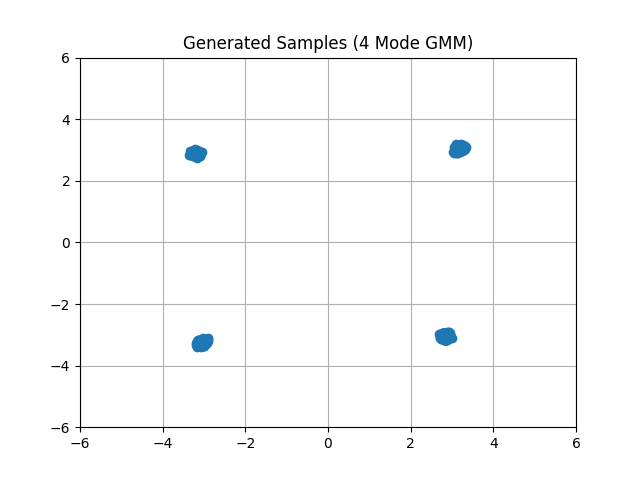
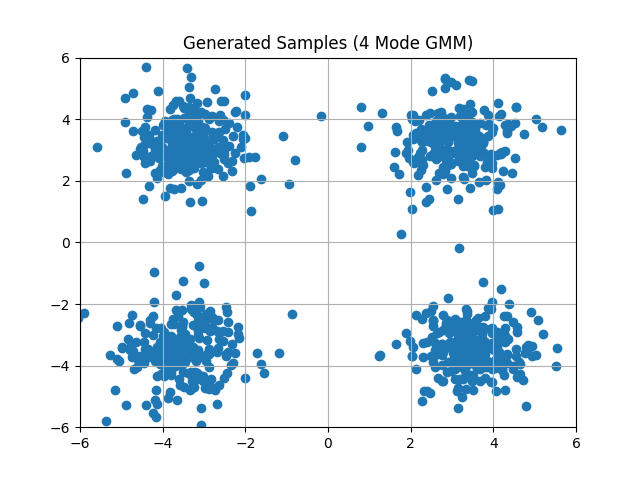
implemented full asbs and vpsde

diff --git a/train.py b/train.py
@@ -3,7 +3,7 @@ import torch.nn as nn
 import torch.optim as optim
 import matplotlib.pyplot as plt
 
-from sde import VESDE
+from sde import VESDE, VPSDE
 from matcher import AdjointMatcher
 from energy import GMM2DEnergy
 
@@ -31,33 +31,45 @@ class ZeroCorrector(nn.Module):
     def forward(self, t, x):
         return torch.zeros_like(x)
 
-def train_minimal_asbs():
+def train_asbs():
     device = torch.device("cuda" if torch.cuda.is_available() else "cpu")
-    sde = VESDE()
+    sde = VPSDE()
     matcher = AdjointMatcher(sde, steps=500)
     energy_fn = GMM2DEnergy(device=device)
 
     adjoint_model = MinimalMLP().to(device)
-    corrector_model = ZeroCorrector().to(device)
+    corrector_model = MinimalMLP().to(device)
 
-    optimizer = optim.Adam(adjoint_model.parameters(), lr=1e-3)
+    optimizer_adjoint_model = optim.Adam(adjoint_model.parameters(), lr=1e-3)
+    optimizer_corrector_model = optim.Adam(corrector_model.parameters(), lr=1e-3)
 
     batch_size = 512
-    epochs = 2000
+    epochs = 10
+    corrector_iterations = 1000
+    adjoint_iterations = 1000
     adjoint_model.train()
     print("[START TRAINING]")
     for epoch in range(epochs):
-        x0 = torch.randn(batch_size, 2, device=device)
-
-        loss = matcher.get_loss(adjoint_model, corrector_model, energy_fn, x0)
-        optimizer.zero_grad()
-        loss.backward()
-        optimizer.step()
-
-        if epoch % (epochs // 10) == 0:
-            print(f"Epoch: {epoch} | Loss: {loss.item():.4f}")
+        for iteration in range(adjoint_iterations):
+            x0 = torch.randn(batch_size, 2, device=device)
+            loss_adjoint_model = matcher.get_loss(adjoint_model, corrector_model, energy_fn, x0)
+            optimizer_adjoint_model.zero_grad()
+            loss_adjoint_model.backward()
+            optimizer_adjoint_model.step()
+            if iteration % max(adjoint_iterations // 2, 1) == 0:
+                print(f"Adjoint Model | Epoch: {epoch} | Training Iteration: {epoch * adjoint_iterations + iteration} | Loss: {loss_adjoint_model.item():.4f}")
+        for iteration in range(corrector_iterations):
+            x0 = torch.randn(batch_size, 2, device=device)
+            loss_corrector_model = matcher.get_corrector_loss(corrector_model, x0)
+            optimizer_corrector_model.zero_grad()
+            loss_corrector_model.backward()
+            optimizer_corrector_model.step()
+            if iteration % max(corrector_iterations // 2, 1) == 0:
+                print(f"Corrector Model | Epoch: {epoch} | Training Iteration: {epoch * adjoint_iterations + iteration} | Loss: {loss_corrector_model.item():.4f}")
+        if epoch % max(epochs // 10, 1) == 0:
+            print(f"Epoch: {epoch} | Adjoint Model Loss: {loss_adjoint_model.item():.4f} | Corrector Model Loss: {loss_corrector_model.item():.4f}")
     print("[END TRAINING]")
-    return adjoint_model, sde
+    return adjoint_model, corrector_model, sde
 
 @torch.no_grad()
 def sample_and_plot(adjoint_model, sde):
@@ -65,21 +77,23 @@ def sample_and_plot(adjoint_model, sde):
     adjoint_model.eval()
     steps = 100
     dt = 1.0 / steps
-    x = torch.randn(1000, 2, device=device)
+    x = torch.randn(1000, 2, device=device) * 2.0
     for step in range(steps):
         t = torch.full((x.shape[0], 1), step * dt, device=device)
         g_t = sde.diffusion(t)
-        learned_drift = (g_t ** 2) * adjoint_model(t, x)
+        base_drift = sde.drift(t, x)
+        control_drift = (g_t ** 2) * adjoint_model(t, x)
+        drift = base_drift + control_drift
         noise = torch.randn_like(x) * g_t * dt ** 0.5
-        x = x + learned_drift + noise
+        x = x + drift * dt + noise
     x_numpy = x.cpu().numpy()
     plt.scatter(x_numpy[:,0], x_numpy[:,1])
     plt.title("Generated Samples (4 Mode GMM)")
     plt.xlim(-6, 6)
     plt.ylim(-6, 6)
     plt.grid(True)
-    plt.savefig("test.png")
+    plt.savefig("test_vpsde3.png")
 
 if __name__ == "__main__":
-    model, sde = train_minimal_asbs()
+    model, corrector_model, sde = train_asbs()
     sample_and_plot(model, sde)

diff --git a/sde.py b/sde.py
@@ -11,9 +11,11 @@ class BaseSDE(nn.Module):
     def diffusion(self, t):
         """g(t)"""
         pass
-    def marginal_prob(self, x0, t):
+    def marginal_prob(self, t, x0):
         """mean and std of p(xt | x0)"""
         pass
+    def adjoint_scaling(self, t):
+        return torch.ones_like(t)
 
 class VESDE(BaseSDE):
     def __init__(self, sigma_min=0.01, sigma_max=1.0):
@@ -30,7 +32,7 @@ class VESDE(BaseSDE):
         return torch.zeros_like(x)
     def diffusion(self, t):
         return self.sigma_min * (self.sigma_ratio ** (1 - t)) * ((2 * torch.log(torch.tensor(self.sigma_ratio))) ** 0.5)
-    def marginal_prob(self, x0, t):
+    def marginal_prob(self, t, x0):
         mean = x0
         var = self._diffsquare_integral(t)
         std = torch.sqrt(var.clamp(min=0))
@@ -40,18 +42,45 @@ class VESDE(BaseSDE):
         t_adjusted = self._diffsquare_integral(t) / self.total_var
         mean = (1 - t_adjusted) * x0 + t_adjusted * x1
         var = self.total_var * t_adjusted * (1 - t_adjusted)
-        noise = torch.sqrt((var).clamp(min=0)) * torch.randn_like(x0)
+        noise = torch.sqrt(var.clamp(min=0)) * torch.randn_like(x0)
         return mean + noise
     
 class VPSDE(BaseSDE):
-    def __init__(self, beta_min=0.01, beta_max=20.0, sigma=1.0):
+    def __init__(self, beta_min=0.01, beta_max=20.0):
         super().__init__()
         self.beta0 = beta_min
         self.beta1 = beta_max
-        self.sigma = sigma
     def _beta(self, t):
         return self.beta0 + t * (self.beta1 - self.beta0)
+    def _beta_integral(self, t0, t1):
+        return self.beta0 * (t1 - t0) + 0.5 * (self.beta1 - self.beta0) * (t1 ** 2 - t0 ** 2)
     def drift(self, t, x):
         return -0.5 * self._beta(t) * x
     def diffusion(self, t):
-        return self.sigma * torch.sqrt(self._beta(t))
+        return torch.sqrt(self._beta(t))
+    def marginal_prob(self, t, x0):
+        decay = -0.5 * self._beta_integral(torch.zeros_like(t), t)
+        mean = torch.exp(decay) * x0
+        var = 1 - torch.exp(2 * decay)
+        std = torch.sqrt(var.clamp(min=0))
+        return mean, std
+    def sample_posterior(self, t, x0, x1):
+        decay_0t = -0.5 * self._beta_integral(torch.zeros_like(t), t)
+        decay_t1 = -0.5 * self._beta_integral(t, torch.ones_like(t))
+        decay_01 = -0.5 * self._beta_integral(torch.zeros_like(t), torch.ones_like(t))
+
+        alpha_0t = torch.exp(decay_0t)
+        alpha_t1 = torch.exp(decay_t1)
+        
+        var_0t = 1 - torch.exp(2 * decay_0t)
+        var_t1 = 1 - torch.exp(2 * decay_t1)
+        var_01 = 1 - torch.exp(2 * decay_01)
+
+        mean = (alpha_t1 * var_0t / var_01) * x1 + (alpha_0t * var_t1 / var_01) * x0
+        var = (var_0t * var_t1) / var_01
+        std = torch.sqrt(var.clamp(min=0))
+        noise = std * torch.randn_like(x0)
+
+        return mean + noise
+    def adjoint_scaling(self, t):
+        return torch.exp(-0.5 * self._beta_integral(t, torch.ones_like(t)))

diff --git a/matcher.py b/matcher.py
@@ -6,16 +6,16 @@ class AdjointMatcher:
     def __init__(self, sde: BaseSDE, steps=100):
         self.sde = sde
         self.steps = steps
+    @torch.no_grad()
     def simulate(self, x0):
         dt = 1.0 / self.steps
         x = x0.clone()
-        for i in range(self.steps):
-            t = torch.full((x0.shape[0], 1), i * dt, device=x0.device)
+        for step in range(self.steps):
+            t = torch.full((x0.shape[0], 1), step * dt, device=x0.device)
             drift = self.sde.drift(t, x)
             diffusion = self.sde.diffusion(t) * dt ** 0.5 * torch.randn_like(x)
-            x = x + drift + diffusion
+            x = x + drift * dt + diffusion
         return x
-
     def get_loss(self, adjoint_model, corrector_model, energy_fn, x0):
         x1 = self.simulate(x0)
         x1.requires_grad_(True)
@@ -27,11 +27,21 @@ class AdjointMatcher:
             correction = corrector_model(t1, x1)
         
         adjoint1 = energy_grad + correction
-        target = -adjoint1
 
         t = torch.rand(x0.shape[0], 1, device=x0.device)
         xt = self.sde.sample_posterior(t, x0, x1)
+        scaling = self.sde.adjoint_scaling(t)
+        target = -adjoint1 * scaling
         pred = adjoint_model(t, xt)
 
         loss = torch.mean(torch.sum((pred - target) ** 2, dim=-1))
+        return loss
+    def get_corrector_loss(self, corrector_model, x0):
+        t = torch.rand(x0.shape[0], 1, device=x0.device)
+        mean, std = self.sde.marginal_prob(t, x0)
+        noise = torch.randn_like(x0)
+        xt = mean + std * noise
+        target = -noise # / std
+        pred = corrector_model(t, xt)
+        loss = torch.mean(torch.sum((std * pred - target) ** 2, dim=-1))
         return loss
